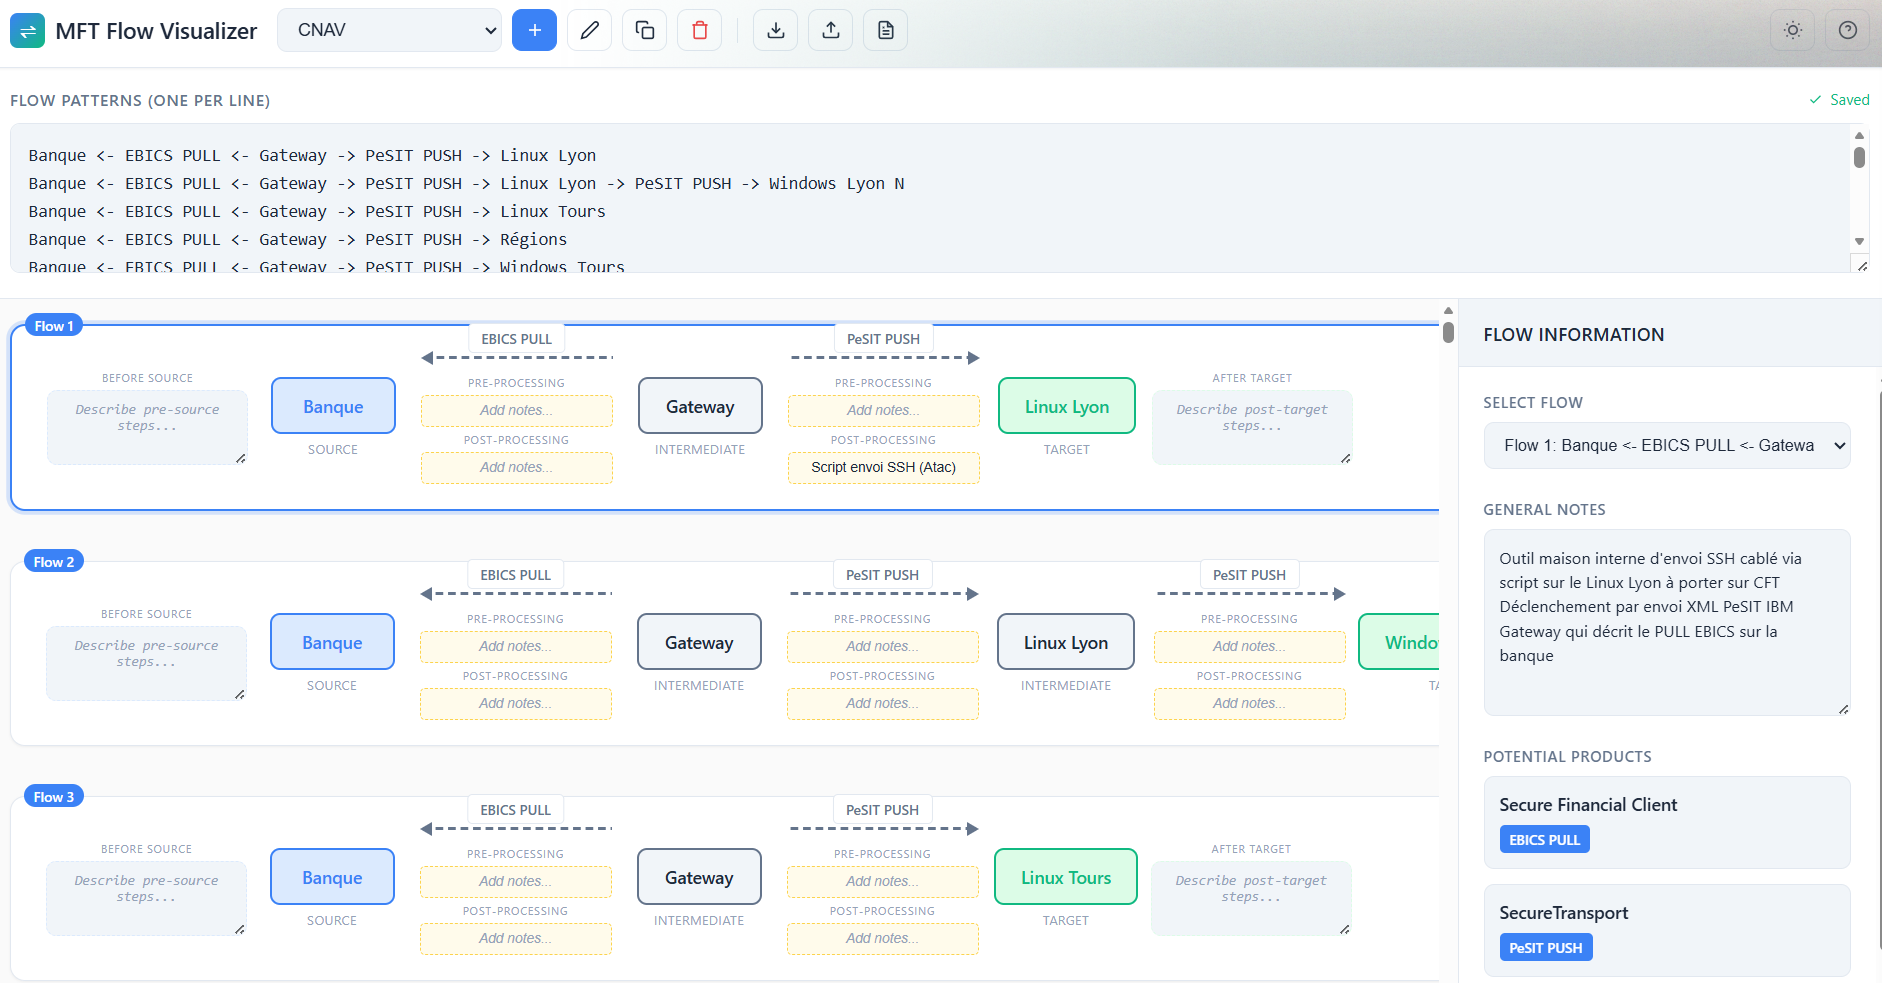
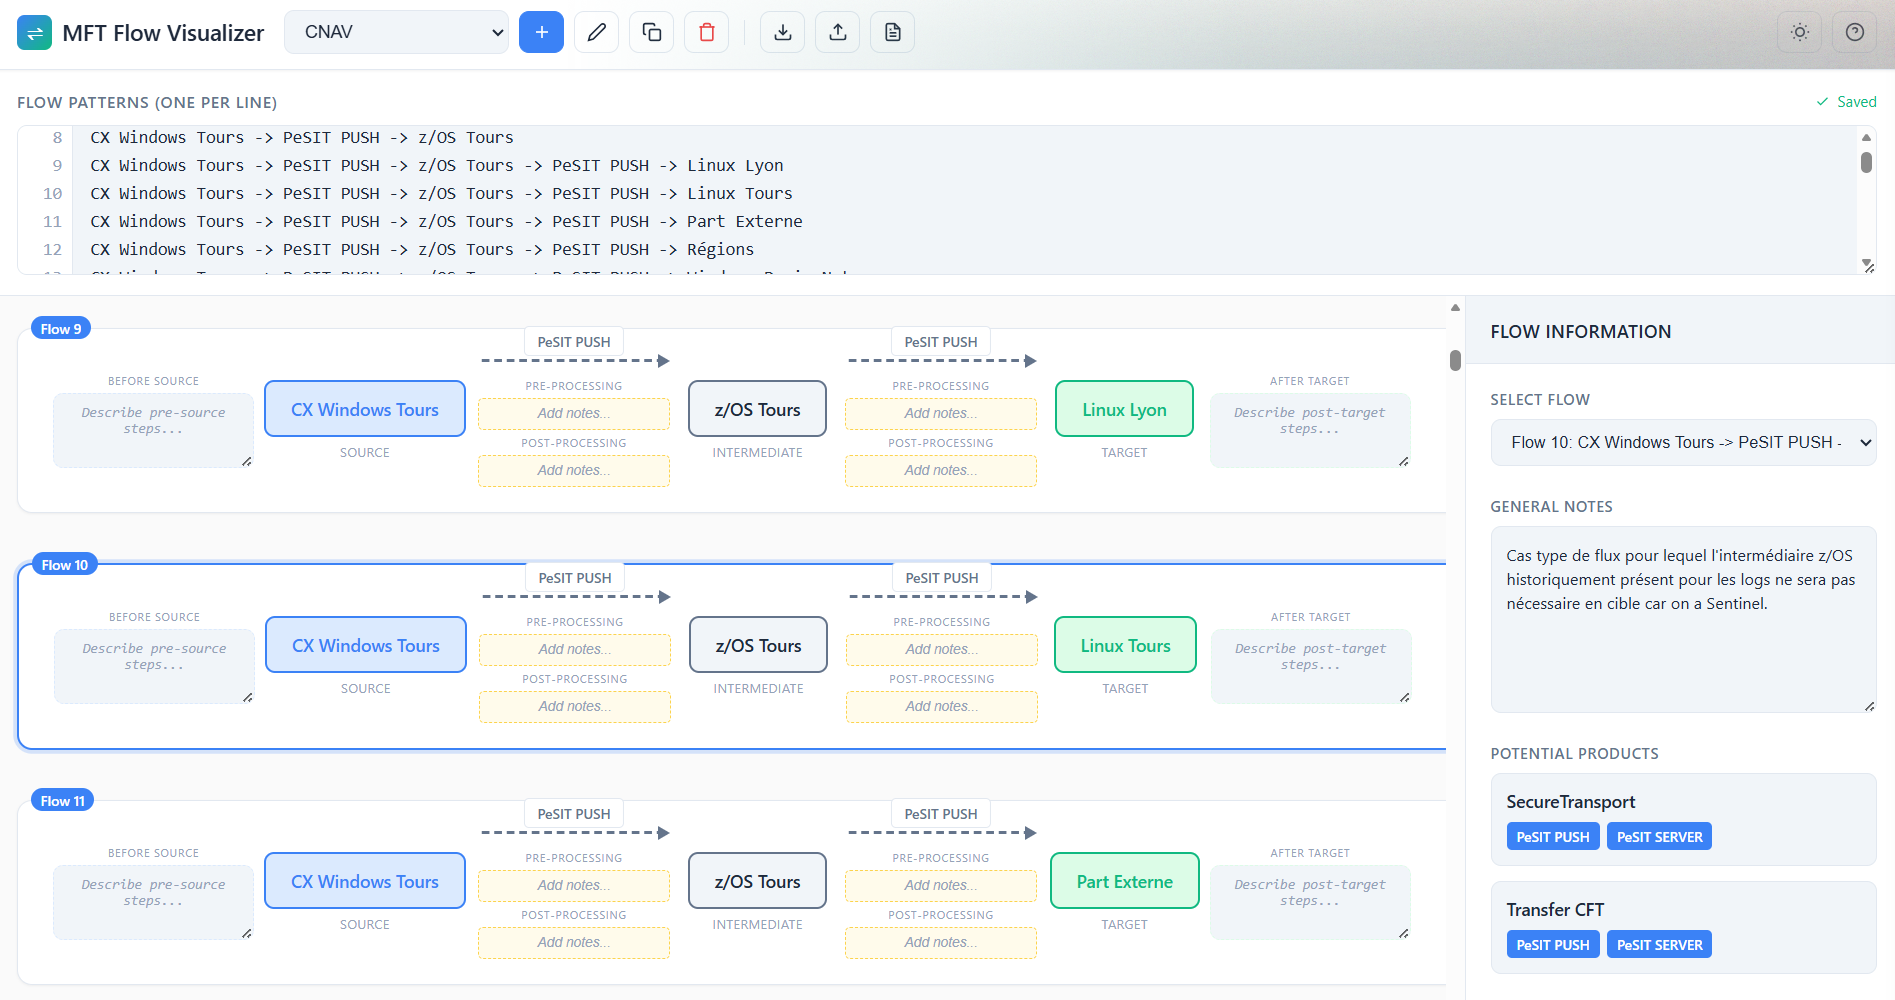
line number and rules improvement
target products for source to target lines too

diff --git a/index.html b/index.html
@@ -447,25 +447,60 @@
             color: var(--accent-secondary);
         }
 
-        .pattern-editor {
-            width: 100%;
-            min-height: 120px;
-            padding: 14px;
+        .pattern-editor-wrapper {
+            display: flex;
             border: 1px solid var(--border-color);
             border-radius: var(--border-radius);
             background: var(--bg-tertiary);
+            overflow: hidden;
+            transition: all var(--transition-speed);
+            height: 120px;
+            max-height: 200px;
+            resize: vertical;
+        }
+
+        .pattern-editor-wrapper:focus-within {
+            border-color: var(--accent-primary);
+            box-shadow: 0 0 0 3px rgba(59, 130, 246, 0.2);
+        }
+
+        .line-numbers {
+            padding: 14px 8px 14px 12px;
+            background: var(--bg-secondary);
+            border-right: 1px solid var(--border-color);
+            font-family: 'SF Mono', 'Fira Code', 'Consolas', monospace;
+            font-size: 14px;
+            line-height: 22.4px;
+            color: var(--text-muted);
+            text-align: right;
+            user-select: none;
+            min-width: 44px;
+            overflow-y: hidden;
+            overflow-x: hidden;
+            flex-shrink: 0;
+        }
+
+        .line-numbers span {
+            display: block;
+            height: 22.4px;
+        }
+
+        .pattern-editor {
+            flex: 1;
+            height: 100%;
+            padding: 14px;
+            border: none;
+            background: transparent;
             color: var(--text-primary);
             font-family: 'SF Mono', 'Fira Code', 'Consolas', monospace;
             font-size: 14px;
-            line-height: 1.6;
-            resize: vertical;
-            transition: all var(--transition-speed);
+            line-height: 22.4px;
+            resize: none;
+            overflow-y: auto;
         }
 
         .pattern-editor:focus {
             outline: none;
-            border-color: var(--accent-primary);
-            box-shadow: 0 0 0 3px rgba(59, 130, 246, 0.2);
         }
 
         .pattern-editor::placeholder {
@@ -1346,12 +1381,15 @@
                     <span id="saveText">Saved</span>
                 </span>
             </div>
-            <textarea id="patternEditor" class="pattern-editor" placeholder="Enter your MFT flow patterns here (one per line)...
+            <div class="pattern-editor-wrapper">
+                <div id="lineNumbers" class="line-numbers"><span>1</span></div>
+                <textarea id="patternEditor" class="pattern-editor" placeholder="Enter your MFT flow patterns here (one per line)...
 
 Examples:
 TESTA -> PeSIT PUSH -> ST -> SFTP PUSH -> TESTB
 TESTA -> PeSIT PUSH -> CFT -> SSH PUSH -> TESTC
 TESTZ <- PeSIT PULL <- CFT -> SSH PUSH -> TESTF" spellcheck="false"></textarea>
+            </div>
             <div id="errorMessage" class="error-message"></div>
         </section>
 
@@ -2407,6 +2445,7 @@ TESTZ <- PeSIT PULL <- CFT -> SSH PUSH -> TESTF" spellcheck="false"></textarea>
                 this.elements = {
                     workspaceSelect: document.getElementById('workspaceSelect'),
                     patternEditor: document.getElementById('patternEditor'),
+                    lineNumbers: document.getElementById('lineNumbers'),
                     generalNotesField: document.getElementById('generalNotesField'),
                     flowSelector: document.getElementById('flowSelector'),
                     errorMessage: document.getElementById('errorMessage'),
@@ -2565,7 +2604,18 @@ TESTZ <- PeSIT PULL <- CFT -> SSH PUSH -> TESTF" spellcheck="false"></textarea>
                     setTimeout(() => this.setSaveIndicator('saved'), 500);
                 }, 300);
 
-                this.elements.patternEditor.addEventListener('input', debouncedUpdate);
+                this.elements.patternEditor.addEventListener('input', () => {
+                    this.updateLineNumbers();
+                    debouncedUpdate();
+                });
+
+                // Sync line numbers scroll with textarea scroll
+                this.elements.patternEditor.addEventListener('scroll', () => {
+                    this.elements.lineNumbers.scrollTop = this.elements.patternEditor.scrollTop;
+                });
+
+                // Initial line numbers update
+                this.updateLineNumbers();
 
                 // Flow selector
                 this.elements.flowSelector.addEventListener('change', (e) => {
@@ -2654,6 +2704,7 @@ TESTZ <- PeSIT PULL <- CFT -> SSH PUSH -> TESTF" spellcheck="false"></textarea>
                 if (ws) {
                     this.elements.patternEditor.value = ws.patternText || '';
                     DiagramRenderer.selectedFlowIndex = null;
+                    this.updateLineNumbers();
                     this.updatePattern();
                 }
             },
@@ -2683,6 +2734,20 @@ TESTZ <- PeSIT PULL <- CFT -> SSH PUSH -> TESTF" spellcheck="false"></textarea>
 
             hideError() {
                 this.elements.errorMessage.classList.remove('visible');
+            },
+
+            updateLineNumbers() {
+                const text = this.elements.patternEditor.value;
+                const lines = text.split('\n');
+                const lineCount = lines.length || 1;
+                
+                // Generate line numbers HTML
+                let lineNumbersHtml = '';
+                for (let i = 1; i <= lineCount; i++) {
+                    lineNumbersHtml += `<span>${i}</span>`;
+                }
+                
+                this.elements.lineNumbers.innerHTML = lineNumbersHtml;
             },
 
             setSaveIndicator(status) {

diff --git a/products_capabilities.js b/products_capabilities.js
@@ -278,7 +278,9 @@ function isValidCapability(protocol, direction) {
 }
 
 // Helper function to determine required products based on protocol capabilities used in patterns
-// Logic: Only intermediate nodes require products.
+// Logic: 
+// - For flows with intermediate nodes: intermediate nodes require products
+// - For direct flows (source -> target): suggest products that support the protocol used
 // Arrow direction matters:
 // - Forward arrows (->): FROM node performs action, TO node receives
 // - Reverse arrows (<-): TO node performs action, FROM node receives
@@ -286,7 +288,7 @@ function isValidCapability(protocol, direction) {
 function getRequiredProducts(flows) {
     const requiredCapabilities = new Set();
     
-    // Extract required capabilities from flows, focusing on intermediate nodes
+    // Extract required capabilities from flows
     flows.forEach(flow => {
         if (!flow || !flow.edges || !flow.nodes) return;
         
@@ -295,6 +297,9 @@ function getRequiredProducts(flows) {
         flow.nodes.forEach(node => {
             nodeMap.set(node.label, node.type);
         });
+        
+        // Check if this is a direct flow (source -> target without intermediates)
+        const hasIntermediates = flow.nodes.some(node => node.type === 'intermediate');
         
         flow.edges.forEach(edge => {
             const fromType = nodeMap.get(edge.fromLabel);
@@ -326,6 +331,17 @@ function getRequiredProducts(flows) {
             
             // If the SERVER node is intermediate: require SERVER capability
             if (serverType === 'intermediate') {
+                const serverCapability = `${edge.protocol} SERVER`;
+                requiredCapabilities.add(serverCapability);
+            }
+            
+            // For direct flows (no intermediates), suggest products based on the protocol used
+            // This helps users know which products could handle this type of transfer
+            if (!hasIntermediates) {
+                // Add both CLIENT capability (for the sending side)
+                const clientCapability = `${edge.protocol} ${edge.direction}`;
+                requiredCapabilities.add(clientCapability);
+                // Add SERVER capability (for the receiving side)
                 const serverCapability = `${edge.protocol} SERVER`;
                 requiredCapabilities.add(serverCapability);
             }
